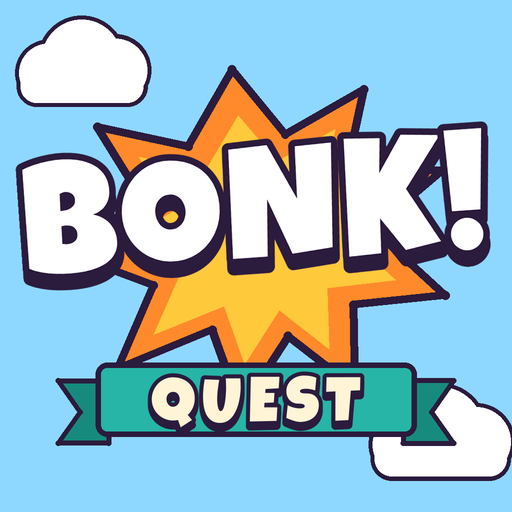
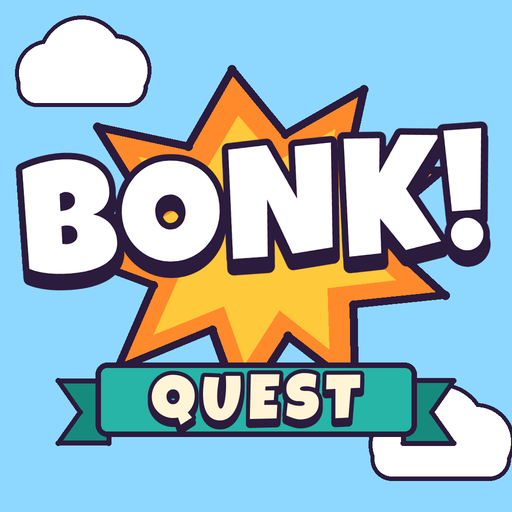
Raise QUEST by half its shadow so the letters + shadow are centred
Centring the letters alone (by capital height) read as too low because the
ink drop shadow adds visible weight underneath (user). The letters and their
shadow are now centred as one block: letters 14 px from the banner's top and
28 from its bottom on the thumbnail (the shadow fills about 10 of those),
7 / 14 on the icon; left and right unchanged.

Changed region(s): [[0.2812, 0.7188, 0.7188, 0.8438]]

diff --git a/art/tools/branding/bonk_logo.py b/art/tools/branding/bonk_logo.py
@@ -100,7 +100,9 @@ def logo(base, cx, cy, k):
     d.rounded_rectangle((rx + 44 * k, ry + 8 * k, rx + 426 * k, ry + 96 * k), radius=14 * k, fill=TEAL, outline=INK,
                         width=int(7 * k))
     quest, mid = spaced_text(None, "QUEST", 76 * k, 8 * k, CREAM, 5 * k, 6 * k)
-    base.alpha_composite(quest, (int(cx - quest.width / 2), int(ry + 52 * k - mid)))  # box centre: y 8..96
+    # centre the letters + their 6-unit drop shadow as one block (box centre: y 8..96); centring the letters alone
+    # read as too low (user, 2026-10-17), centring the whole bounding box (shadow + Q tail) as too high
+    base.alpha_composite(quest, (int(cx - quest.width / 2), int(ry + 52 * k - mid - 3 * k)))
 
 
 def icon(px=512):
